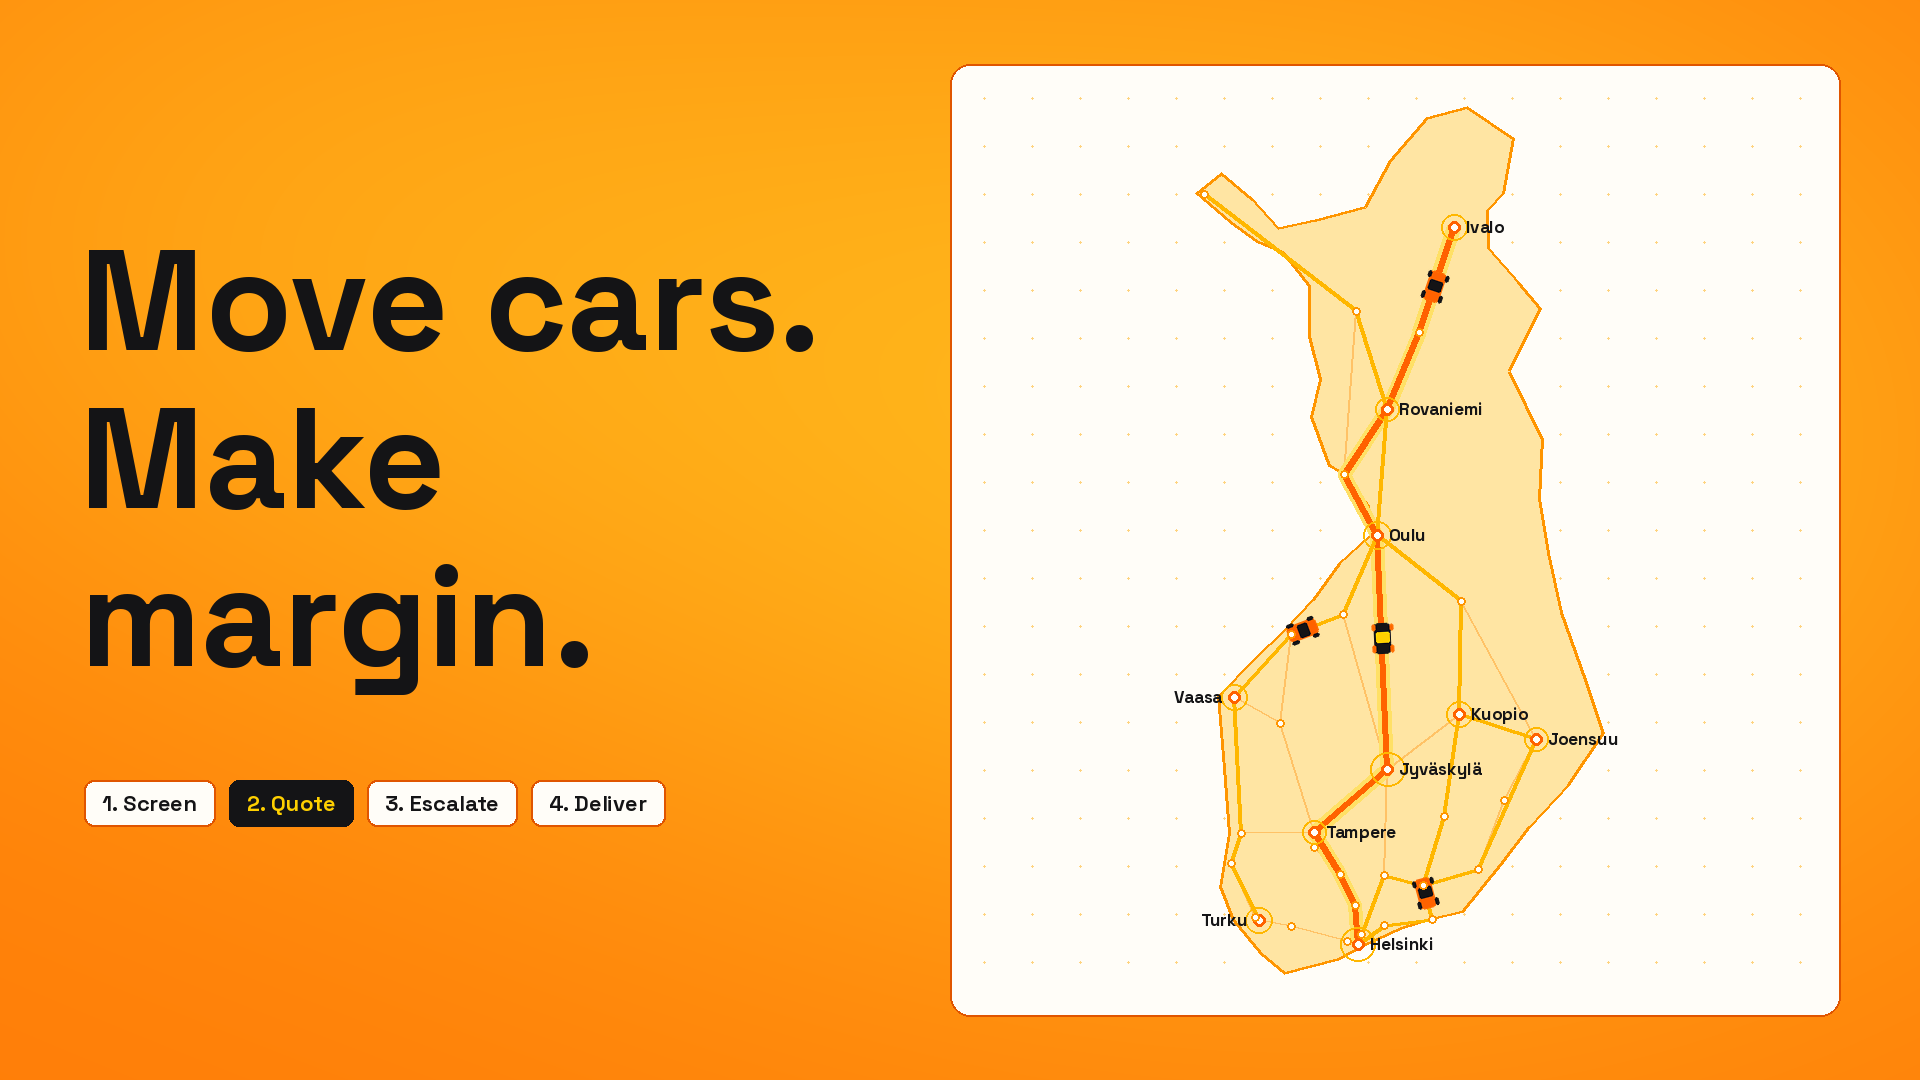
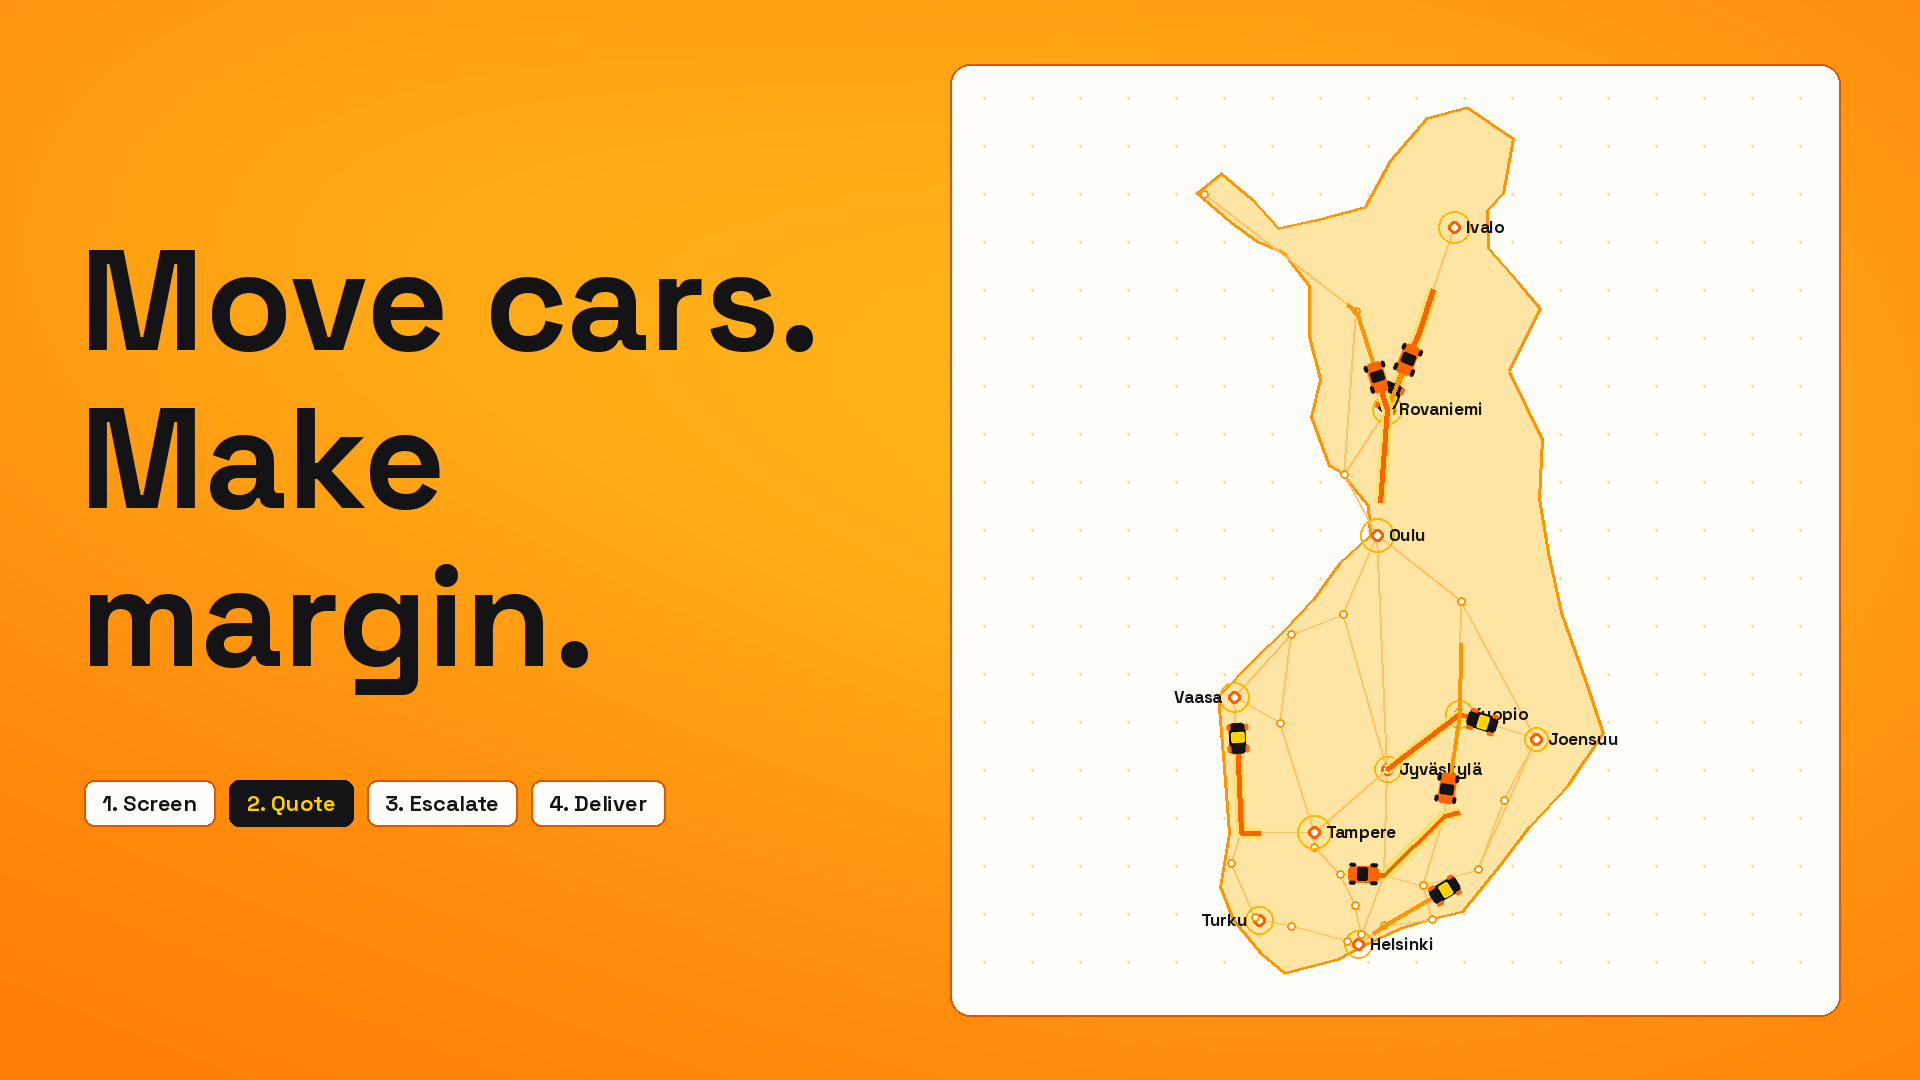
feat(demo-video): add multi-directional fleet movement with trailing wakes across Finland

diff --git a/docs/demo-video/render.py b/docs/demo-video/render.py
@@ -187,6 +187,15 @@ MAP_NODES = [(120, 590), (280, 500), (410, 610), (530, 415), (710, 460), (810, 2
 MAP_EDGES = [(0, 1), (1, 2), (2, 3), (3, 4), (4, 5), (5, 6), (6, 7), (7, 8), (8, 1), (7, 3), (4, 9), (9, 10), (10, 11), (11, 5), (11, 4), (2, 9), (0, 2)]
 
 
+MAP_TRIPS = [
+    ([0, 1, 7, 6, 5, 11, 10], 0.14, 0.24, INK, True),
+    ([10, 9, 4, 3, 7, 8], 0.28, 0.27, ORANGE, True),
+    ([5, 4, 3, 2, 0], 0.42, 0.22, INK, False),
+    ([8, 1, 2, 9, 10, 11], 0.19, 0.26, ORANGE, False),
+    ([6, 7, 3, 4, 11], 0.55, 0.25, INK, False),
+]
+
+
 def network(im, t, box=(820, 100, 1840, 980), active=True, bg=CARD, border=GOLD_LINE):
     x, y, x2, y2 = box
     rect(im, box, bg, outline=border, r=20, width=2)
@@ -200,28 +209,25 @@ def network(im, t, box=(820, 100, 1840, 980), active=True, bg=CARD, border=GOLD_
         line(im, [pts[a], pts[b]], '#FFC266', 2)
     for i, (a, b) in enumerate(MAP_EDGES):
         if i % 2 == 0:
-            px, py = route_point([pts[a], pts[b]], (t * .28 + i * .13) % 1)
+            px, py = route_point([pts[a], pts[b]], (t * .25 + i * .17) % 1)
             circle(im, px, py, 4, MANGO)
-    route_main = [pts[i] for i in [0, 1, 7, 6, 5, 11, 10]]
-    route_alt = [pts[i] for i in [8, 1, 2, 3, 4, 9, 10]]
-    path_partial(im, route_alt, ease(t / 1.4), MARIGOLD, 4)
-    path_partial(im, route_main, ease(t / 1.2), ORANGE, 6, glow='#FFE066')
     for i, p in enumerate(pts):
-        is_hub = i in [0, 5, 10, 3]
+        is_hub = i in [0, 5, 10, 3, 8]
         circle(im, *p, 7 if is_hub else 5, CARD, ORANGE if is_hub else MANGO, 3 if is_hub else 2)
-    for i in [0, 5, 10]:
+    for i in [0, 5, 10, 3]:
         p = pts[i]
         circle(im, *p, 13 + 9 * ((t * .85 + i * .3) % 1), None, MARIGOLD, 2)
     if active:
-        for i in range(4):
-            r_path = route_main if i < 3 else route_alt
-            p = (t * .22 + i * .27) % 1
-            if p > ease(t / 1.2) or p < .025 or p > .975:
-                continue
-            q = route_point(r_path, p)
-            ahead = route_point(r_path, min(p + .002, 1))
-            heading = math.degrees(math.atan2(ahead[1] - q[1], ahead[0] - q[0]))
-            car(im, *q, color=INK if i % 2 == 0 else ORANGE, scale=.88, angle=heading)
+        for t_idx, (nodes, p0, spd, c_col, is_prim) in enumerate(MAP_TRIPS):
+            r_path = [pts[k] for k in nodes]
+            p = (p0 + t * spd) % 1.0
+            tail = max(0.0, p - 0.36)
+            path_segment(im, r_path, tail, p, ORANGE if is_prim else MARIGOLD, 5 if is_prim else 4, glow='#FFE066' if is_prim else None)
+            if 0.03 < p < 0.97:
+                q = route_point(r_path, p)
+                ahead = route_point(r_path, min(p + .006, 1.0))
+                heading = math.degrees(math.atan2(ahead[1] - q[1], ahead[0] - q[0]))
+                car(im, *q, color=c_col, scale=.86, angle=heading)
     return pts
 
 
@@ -295,12 +301,42 @@ FINLAND_ROADS = [
     ('kittila', 'kilpisjarvi'), ('kemi', 'kittila'),
 ]
 
-FINLAND_CORRIDORS = [
-    ['helsinki', 'hyvinkaa', 'hameenlinna', 'tampere', 'jyvaskyla', 'oulu', 'kemi', 'rovaniemi', 'sodankyla', 'ivalo'],
-    ['turku', 'rauma', 'pori', 'vaasa', 'kokkola', 'ylivieska', 'oulu'],
-    ['helsinki', 'lahti', 'kouvola', 'mikkeli', 'kuopio', 'kajaani', 'oulu', 'rovaniemi', 'kittila', 'kilpisjarvi'],
-    ['helsinki', 'porvoo', 'kotka', 'kouvola', 'lappeenranta', 'joensuu', 'kuopio'],
+# Multi-directional dispatch routes (N->S, W->E, E->W, S->N, NW->SE) across Finland
+FINLAND_TRIPS = [
+    # (waypoints, start_offset, speed, color, is_primary)
+    (['ivalo', 'sodankyla', 'rovaniemi', 'kemi', 'oulu'], 0.05, 0.22, ORANGE, True),
+    (['kilpisjarvi', 'kittila', 'rovaniemi', 'sodankyla', 'ivalo'], 0.16, 0.25, MARIGOLD, False),
+    (['vaasa', 'seinajoki', 'jyvaskyla', 'kuopio', 'joensuu'], 0.24, 0.27, MARIGOLD, True),
+    (['joensuu', 'savonlinna', 'mikkeli', 'lahti', 'hameenlinna', 'turku'], 0.14, 0.24, ORANGE, True),
+    (['helsinki', 'hyvinkaa', 'hameenlinna', 'tampere', 'pori', 'vaasa'], 0.30, 0.26, ORANGE, True),
+    (['oulu', 'kajaani', 'kuopio', 'mikkeli', 'kouvola', 'kotka'], 0.18, 0.23, MARIGOLD, False),
+    (['turku', 'salo', 'espoo', 'helsinki', 'porvoo', 'lappeenranta'], 0.22, 0.28, ORANGE, False),
+    (['kokkola', 'ylivieska', 'oulu', 'rovaniemi', 'kittila'], 0.35, 0.21, MARIGOLD, True),
 ]
+
+
+def path_segment(im, points, p0, p1, color=ORANGE, width=5, glow=None):
+    """Draw a sub-segment [p0, p1] of a polyline for live directional trails."""
+    p0, p1 = clamp(p0), clamp(p1)
+    if p1 <= p0 or len(points) < 2:
+        return
+    ds = [math.dist(points[i], points[i + 1]) for i in range(len(points) - 1)]
+    total = sum(ds)
+    if total <= 0:
+        return
+    d0, d1 = total * p0, total * p1
+    pts = [route_point(points, p0)]
+    acc = 0.0
+    for i, d in enumerate(ds):
+        nxt = acc + d
+        if d0 < nxt < d1:
+            pts.append(points[i + 1])
+        acc = nxt
+    pts.append(route_point(points, p1))
+    if len(pts) > 1:
+        if glow:
+            line(im, pts, glow, width + 6)
+        line(im, pts, color, width)
 
 
 def finland_map(im, t, box=(820, 80, 1840, 1000), zoom_south=False, bg=CARD, border=GOLD_LINE):
@@ -346,22 +382,6 @@ def finland_map(im, t, box=(820, 80, 1840, 1000), zoom_south=False, bg=CARD, bor
         if in_box(pu) and in_box(pv):
             line(im, [pu, pv], '#FFC266', 2)
 
-    # Animated highway corridors spanning Finland
-    corridors = FINLAND_CORRIDORS[:2] if zoom_south else FINLAND_CORRIDORS
-    for c_idx, corr in enumerate(corridors):
-        pts = [proj(*FINLAND_PLACES[pid][:2]) for pid in corr if in_box(proj(*FINLAND_PLACES[pid][:2]))]
-        if len(pts) > 1:
-            is_primary = c_idx == 0
-            path_partial(im, pts, ease((t + 0.3 * c_idx) / 1.4), ORANGE if is_primary else MARIGOLD, 6 if is_primary else 4, glow='#FFE066' if is_primary else None)
-            # Fleet cars travelling along each Finnish corridor
-            for car_k in range(2 if is_primary else 1):
-                p = (t * (0.20 + 0.03 * c_idx) + car_k * 0.48 + c_idx * 0.21) % 1.0
-                if 0.03 < p < 0.97 and p <= ease((t + 0.3 * c_idx) / 1.4):
-                    q = route_point(pts, p)
-                    ahead = route_point(pts, min(p + 0.005, 1.0))
-                    heading = math.degrees(math.atan2(ahead[1] - q[1], ahead[0] - q[0]))
-                    car(im, *q, color=INK if (c_idx + car_k) % 2 == 0 else ORANGE, scale=0.82, angle=heading)
-
     # Plot all 30 simulator towns + Lapland hubs
     for pid, (lat, lon, name, is_major) in FINLAND_PLACES.items():
         pt = proj(lat, lon)
@@ -373,6 +393,20 @@ def finland_map(im, t, box=(820, 80, 1840, 1000), zoom_south=False, bg=CARD, bor
             lx_off = -12 if pid in ('vaasa', 'turku') else 12
             anc = 'rm' if pid in ('vaasa', 'turku') else 'lm'
             txt(im, name, pt[0] + lx_off, pt[1], 17, INK, weight=700, anchor=anc)
+
+    # Multi-directional trips with trailing route wakes and varied speeds/directions
+    for c_idx, (corr, p0, spd, col, is_prim) in enumerate(FINLAND_TRIPS):
+        pts = [proj(*FINLAND_PLACES[pid][:2]) for pid in corr if in_box(proj(*FINLAND_PLACES[pid][:2]))]
+        if len(pts) < 2:
+            continue
+        p = (p0 + t * spd) % 1.0
+        tail = max(0.0, p - 0.34)
+        path_segment(im, pts, tail, p, ORANGE if is_prim else MANGO, 5 if is_prim else 4, glow='#FFE066' if is_prim else None)
+        if 0.03 < p < 0.97:
+            q = route_point(pts, p)
+            ahead = route_point(pts, min(p + 0.008, 1.0))
+            heading = math.degrees(math.atan2(ahead[1] - q[1], ahead[0] - q[0]))
+            car(im, *q, color=INK if c_idx % 2 == 0 else ORANGE, scale=0.82, angle=heading)
 
 
 def hero(t):
